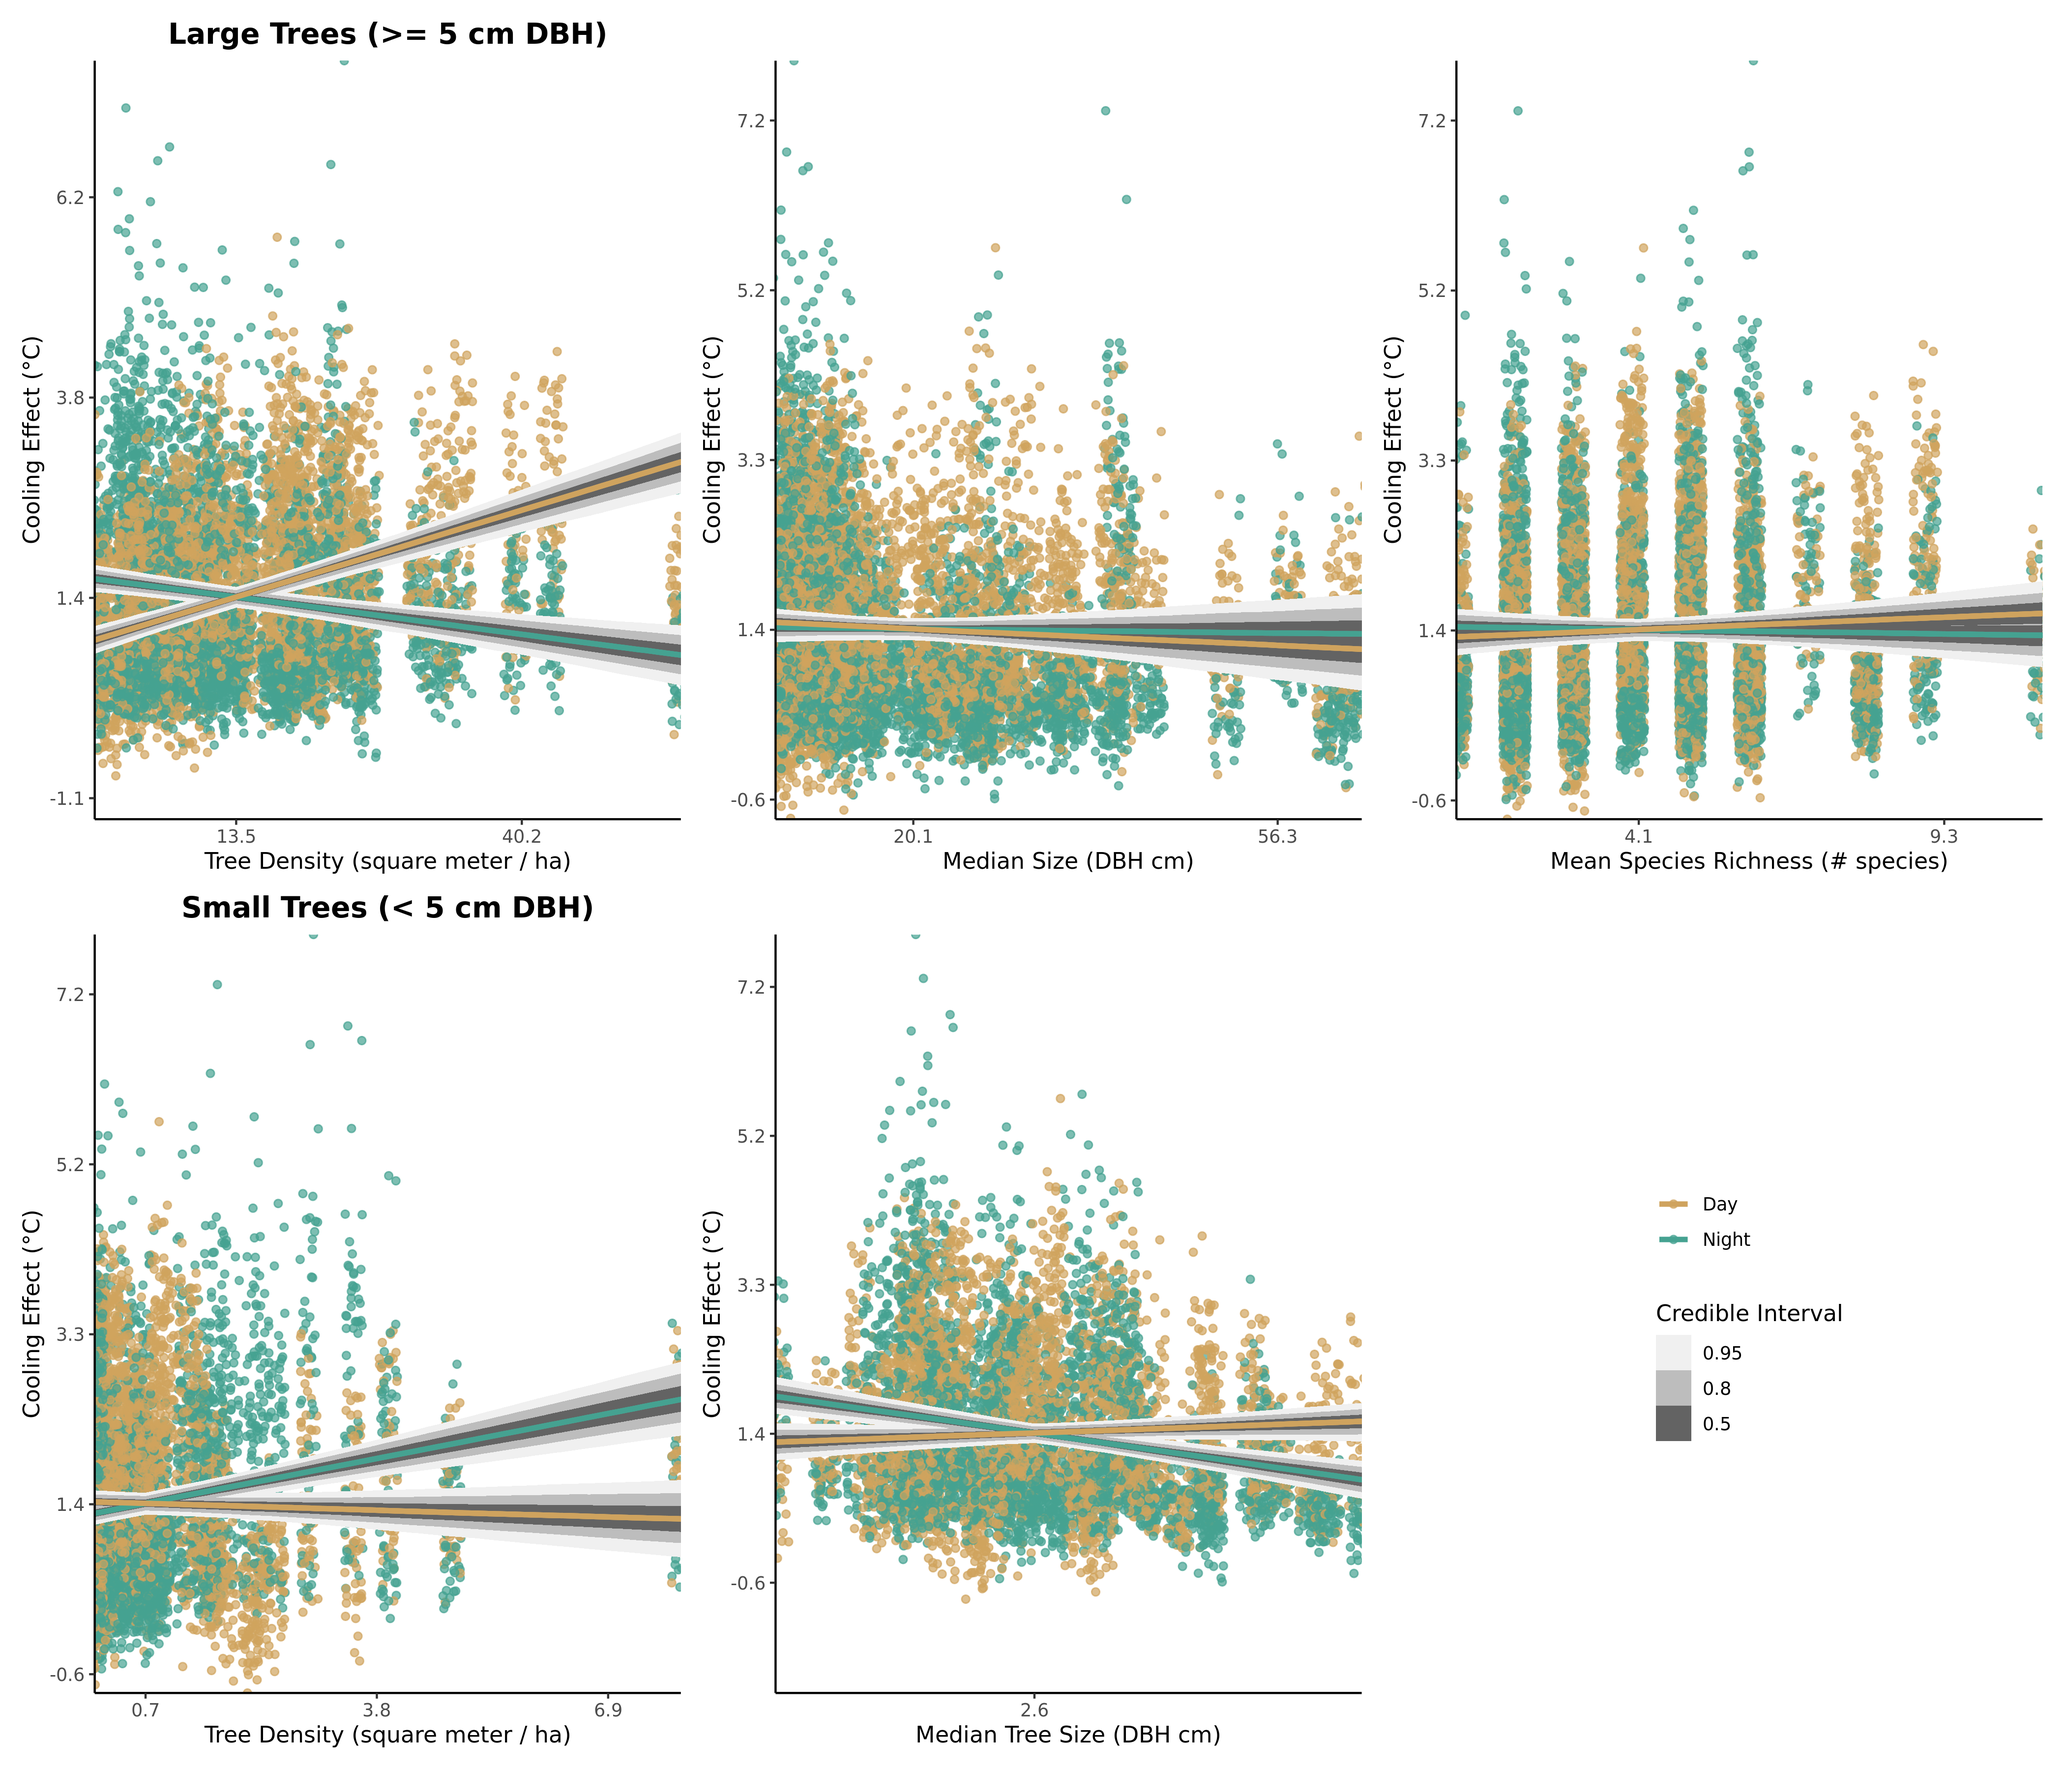
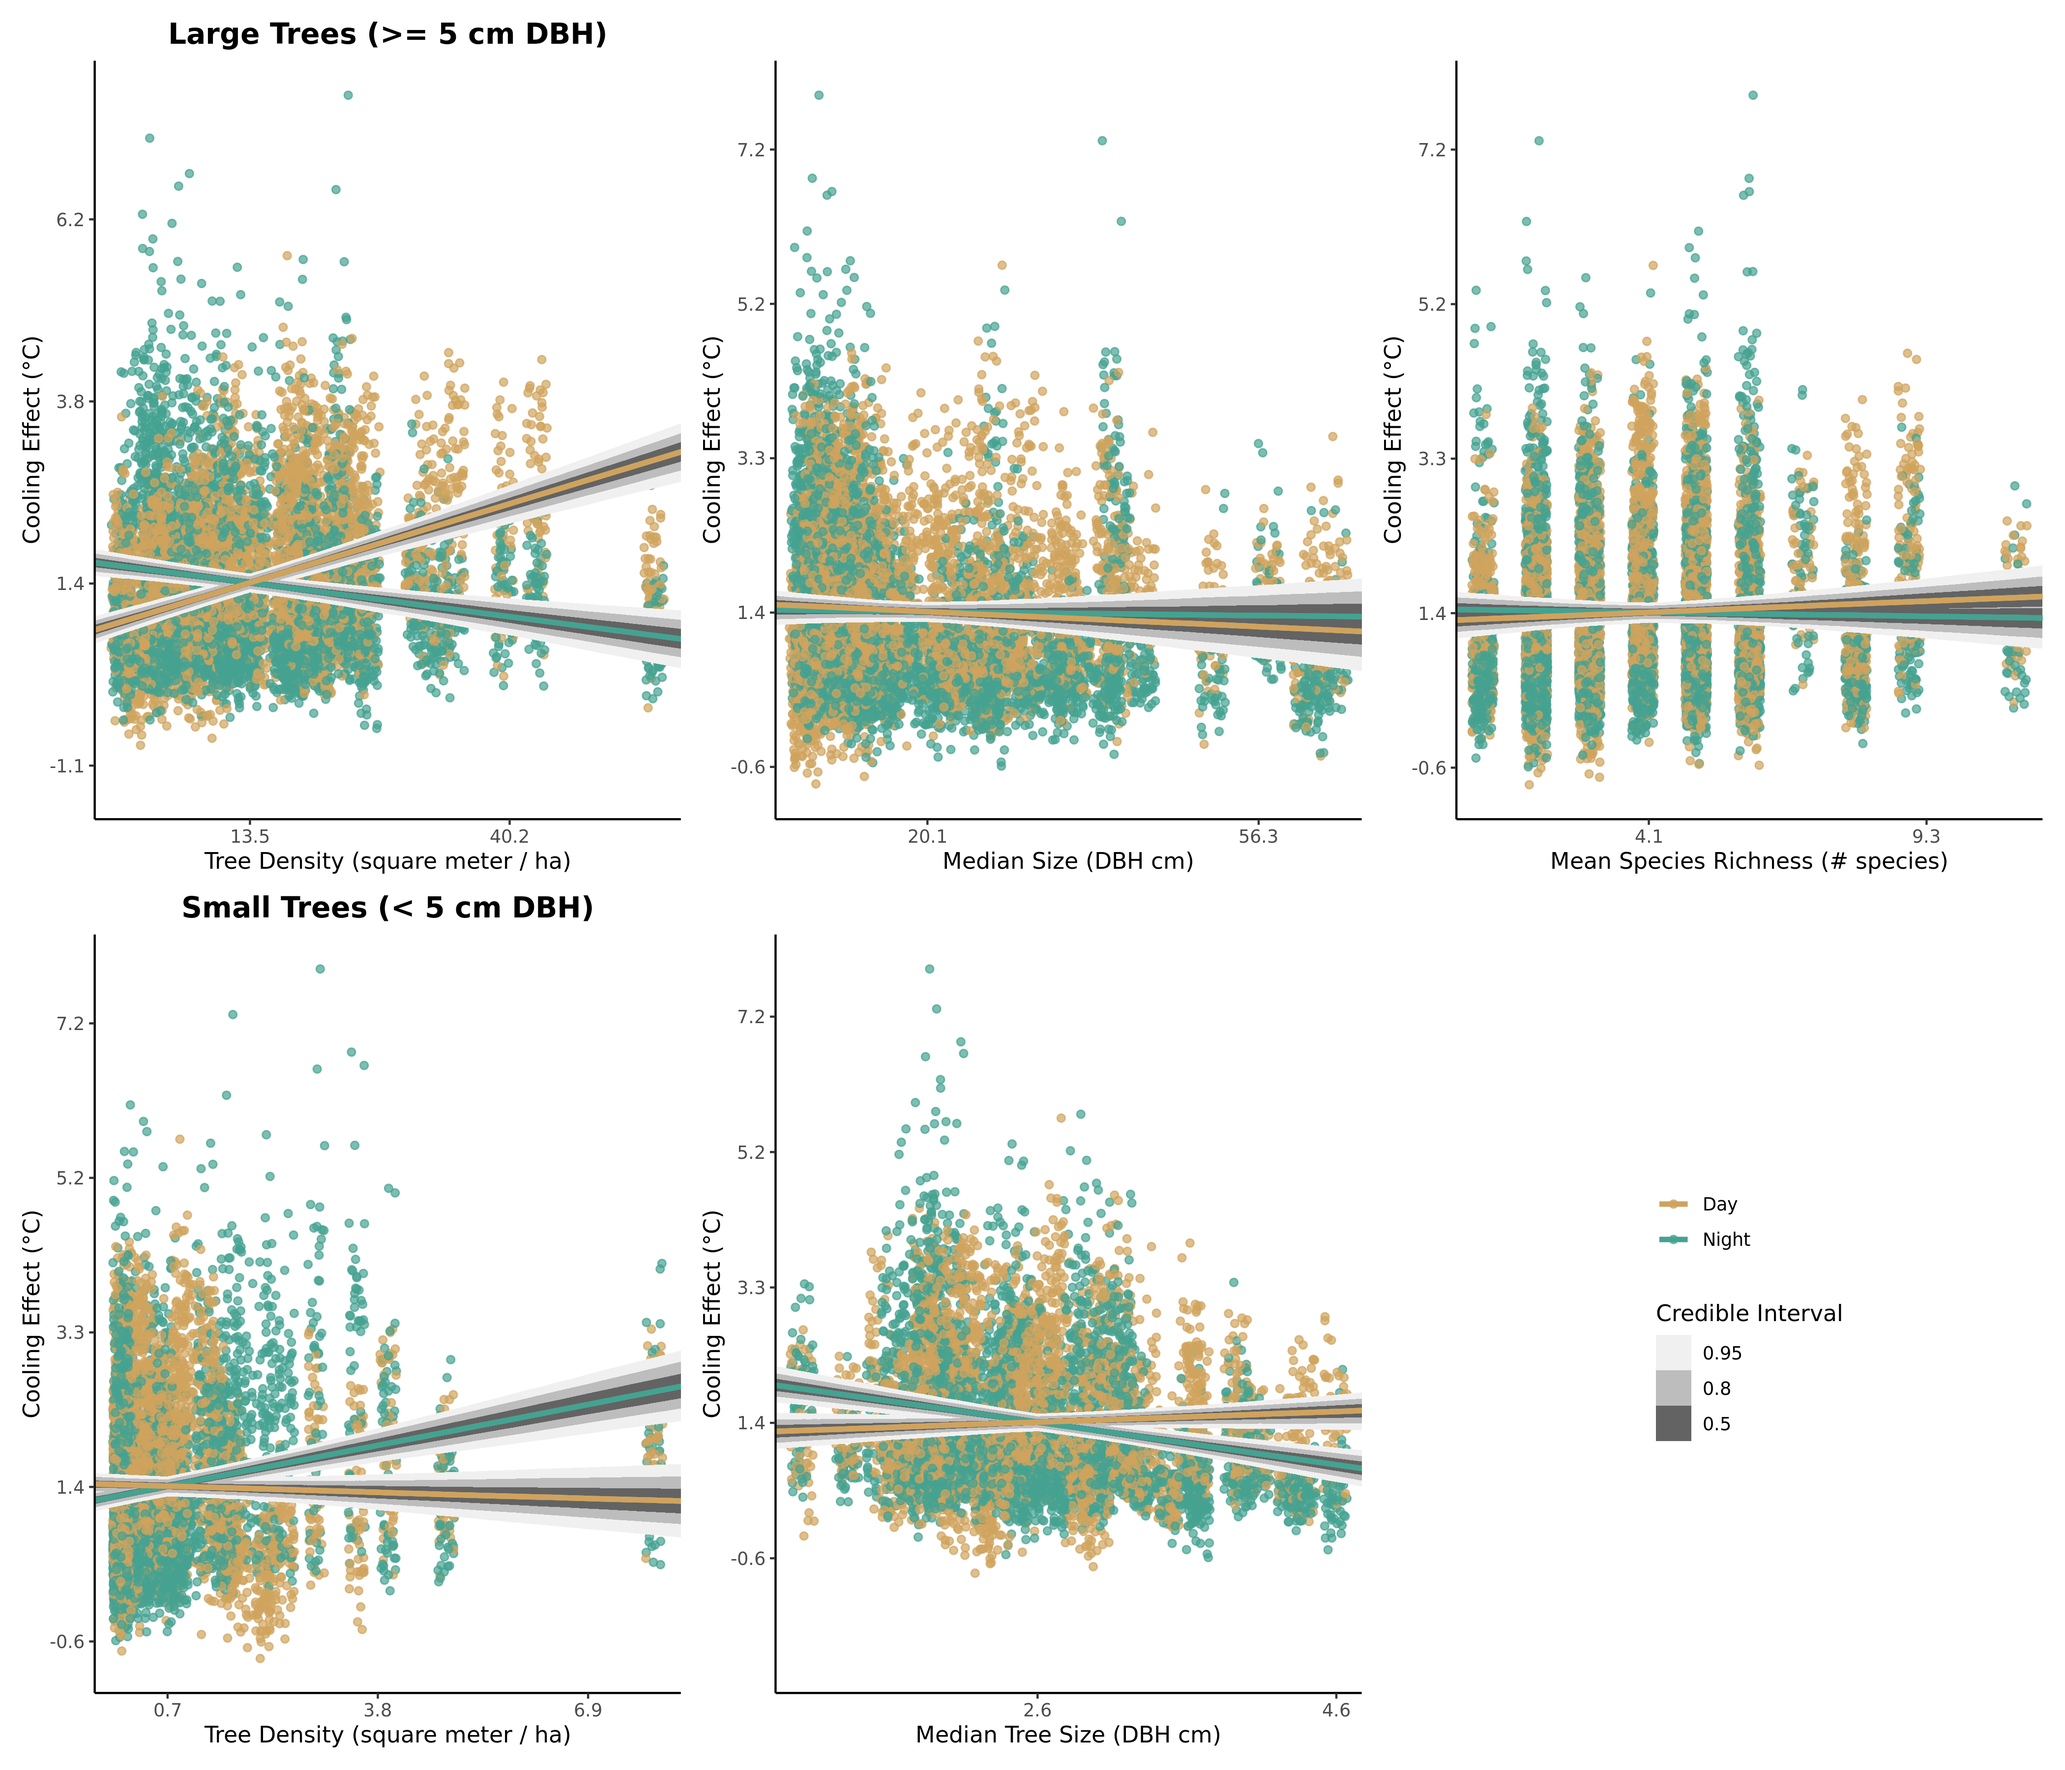
allow expansion of axes

diff --git a/scripts/figures/equations.html b/scripts/figures/equations.html
@@ -364,8 +364,8 @@ L. Robitaille<sup>3</sup>, Carly D. Ziter<sup>1</sup></p>
 Department of Biology, Memorial University of Newfoundland, St John’s
 Canada, A1C 5S7</p>
 <p>* isabella.richmond@mail.concordia.ca, 438-439-8064</p>
-<div id="model-equations" class="section level2">
-<h2>Model Equations</h2>
+<div id="model-equations---figure-s4" class="section level2">
+<h2>Model Equations - Figure S4</h2>
 <p>Below are the math stats notations for all models run in our
 paper.</p>
 </div>
